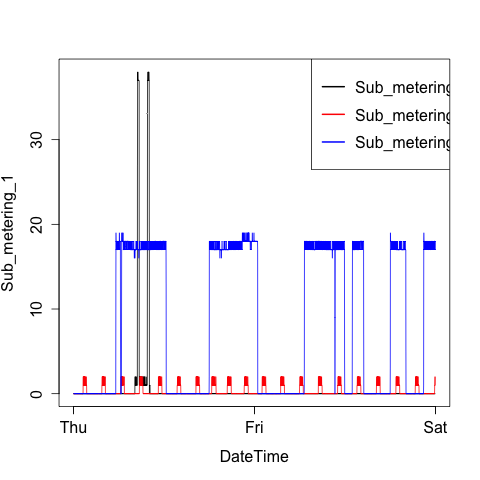
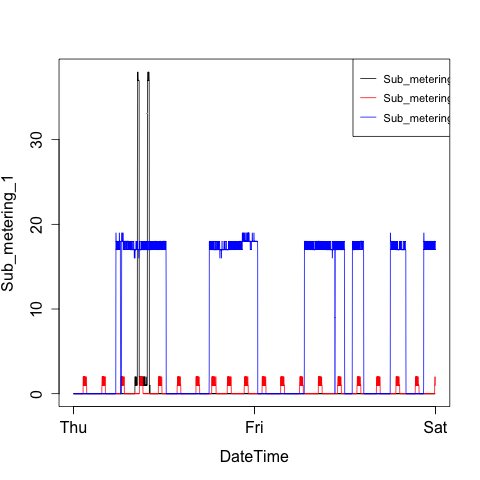
playing with legends

Changed region(s): [[0.6875, 0.125, 0.9375, 0.3125]]

diff --git a/README.md b/README.md
@@ -95,25 +95,32 @@ The four plots that you will need to construct are shown below.
 ### Plot 1
 
 
+## Baseline
 ![plot of chunk unnamed-chunk-2](figure/unnamed-chunk-2.png) 
-
+## Submission
 ![plot1](plot1.png) 
 
 
 ### Plot 2
 
+## Baseline
 ![plot of chunk unnamed-chunk-3](figure/unnamed-chunk-3.png) 
+## Submission
 ![plot2](plot2.png) 
 
 
 ### Plot 3
 
+## Baseline
 ![plot of chunk unnamed-chunk-4](figure/unnamed-chunk-4.png) 
+## Submission
 ![plot3](plot3.png) 
 
 
 ### Plot 4
 
+## Baseline
 ![plot of chunk unnamed-chunk-5](figure/unnamed-chunk-5.png) 
+## Submission
 ![plot4](plot4.png) 
 
